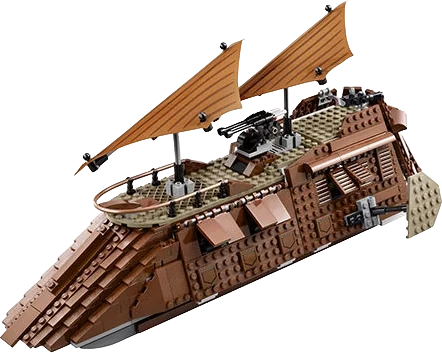
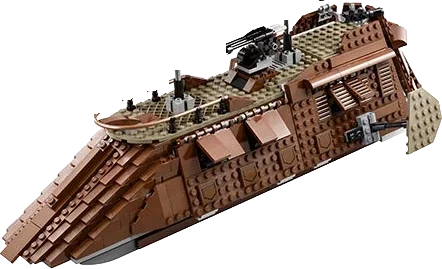
Csak a szett: figurák nélküli szettfotók (mellettük álló figurák levágva), foil packek és paper bagek kihagyva
Claude-Session: https://claude.ai/code/session_01R5Rp62Ha9wasDz8DCjrd26

diff --git a/app.js b/app.js
@@ -449,13 +449,14 @@
     // rounded like every shop price (nearest 500 Ft − 20); shown only when the saving is real and the rest is still worth it
     const figTotal = (D.minifigs || []).reduce((s, f) => s + f.qty, 0);
     const shopRound = v => Math.max(500, Math.round(v / 500) * 500) - 20;
-    const noFig = set && !i.preorder && i.price && D.figs_value_huf > 0 ? shopRound(i.price - D.figs_value_huf) : 0;
+    const isBag = /foil pack|paper bag|polybag/i.test(i.name);   // there the minifigure is the product
+    const noFig = set && !isBag && !i.preorder && i.price && D.figs_value_huf > 0 ? shopRound(i.price - D.figs_value_huf) : 0;
     const showNoFig = noFig >= i.price * 0.3 && noFig <= i.price - 980;
     const noFigLink = MESSENGER + "?text=" + encodeURIComponent((hu ? "Szia! Csak a szettet kérem, minifigurák nélkül: " : "Hi! I'd like just the set, without the minifigures: ") + `${sn} ${i.name} (${money(noFig)})`);
     const setOnly = showNoFig ? `<div class="pd-setonly">
         <span class="pd-setonly__kicker">${hu ? "Minifigurák nélkül" : "Without the minifigures"}</span>
         <b class="pd-setonly__name">${esc(sn)} ${esc(i.name)} – ${hu ? "csak a szett" : "set only"}</b>
-        <img src="assets/nofig/${encodeURIComponent(i.no)}.webp?v=1" data-fallback="https://img.bricklink.com/ItemImage/SN/0/${encodeURIComponent(i.no)}.png" alt="${esc(i.name)} – ${hu ? "a megépített szett" : "the built set"}" loading="lazy">
+        <img src="assets/nofig/${encodeURIComponent(i.no)}.webp?v=2" data-fallback="https://img.bricklink.com/ItemImage/SN/0/${encodeURIComponent(i.no)}.png" alt="${esc(i.name)} – ${hu ? "a megépített szett" : "the built set"}" loading="lazy">
         <span class="pd-setonly__price"><b>${money(noFig)}</b><s>${money(i.price)}</s><em>${hu ? "−" + money(i.price - noFig) : "save " + money(i.price - noFig)}</em></span>
         <a class="pd-fig__btn pd-setonly__btn" href="${esc(noFigLink)}" target="_blank" rel="noopener">${hu ? "Csak a szettet kérem" : "Just the set, please"}</a>
         <p class="pd-setonly__note">${hu

diff --git a/index.html b/index.html
@@ -186,7 +186,7 @@
 </footer>
 
 <script src="shop.js?v=202611012105"></script>
-<script src="app.js?v=202611012130"></script>
+<script src="app.js?v=202611012140"></script>
 <script src="anim.js?v=202611011859" defer></script>
 </body>
 </html>

diff --git a/figurak.html b/figurak.html
@@ -98,7 +98,7 @@
 </footer>
 
 <script src="shop.js?v=202611012105"></script>
-<script src="app.js?v=202611012130"></script>
+<script src="app.js?v=202611012140"></script>
 <script src="anim.js?v=202611011859" defer></script>
 </body>
 </html>

diff --git a/kosar.html b/kosar.html
@@ -63,7 +63,7 @@
 </footer>
 
 <script src="shop.js?v=202611012105"></script>
-<script src="app.js?v=202611012130"></script>
+<script src="app.js?v=202611012140"></script>
 <script src="anim.js?v=202611011859" defer></script>
 </body>
 </html>

diff --git a/szettek.html b/szettek.html
@@ -97,7 +97,7 @@
 </footer>
 
 <script src="shop.js?v=202611012105"></script>
-<script src="app.js?v=202611012130"></script>
+<script src="app.js?v=202611012140"></script>
 <script src="anim.js?v=202611011859" defer></script>
 </body>
 </html>

diff --git a/termek.html b/termek.html
@@ -58,7 +58,7 @@
 </footer>
 
 <script src="shop.js?v=202611012105"></script>
-<script src="app.js?v=202611012130"></script>
+<script src="app.js?v=202611012140"></script>
 <script src="anim.js?v=202611011859" defer></script>
 </body>
 </html>

diff --git a/scripts/fig_cutouts.py b/scripts/fig_cutouts.py
@@ -47,7 +47,9 @@ def _new_nofig():
     except Exception:
         return True
     inv = {i["no"] for i in json.loads(INV.read_text())["items"] if i["type"] == "SET"}
-    return any(n not in idx for n in inv if (det.get(n) or {}).get("minifigs"))
+    names = {i["no"]: i["name"].lower() for i in json.loads(INV.read_text())["items"]}
+    return any(n not in idx for n in inv if (det.get(n) or {}).get("minifigs")
+               and not any(b in names.get(n, "") for b in ("foil pack", "paper bag", "polybag")))
 
 
 def session():
@@ -184,6 +186,15 @@ def build_only(sess, no):
             keep[lab == i] = 1
     keep = cv2.dilate(keep, np.ones((3, 3), np.uint8))
     alpha = (a * keep * 255).astype(np.uint8)
+    # figures standing close to the model are joined to it only by a thin edge or shadow: erode, drop small pieces, regrow
+    H, W = alpha.shape
+    k = max(3, round(min(H, W) * 0.02))
+    core = cv2.erode((alpha > 128).astype(np.uint8), np.ones((k, k), np.uint8))
+    n2, l2, s2, _ = cv2.connectedComponentsWithStats(core, 8)
+    if n2 > 2:
+        b2 = 1 + int(np.argmax(s2[1:, cv2.CC_STAT_AREA]))
+        keep2 = np.isin(l2, [j for j in range(1, n2) if j == b2 or s2[j, cv2.CC_STAT_AREA] >= 0.25 * s2[b2, cv2.CC_STAT_AREA]]).astype(np.uint8)
+        alpha[cv2.dilate(keep2, np.ones((2 * k + 3, 2 * k + 3), np.uint8)) == 0] = 0
     ys, xs = np.where(alpha > 20)
     rgba = np.dstack([np.array(img), alpha])[ys.min():ys.max() + 1, xs.min():xs.max() + 1]
     im = Image.fromarray(rgba, "RGBA")
@@ -201,7 +212,9 @@ def nofig_sets(sess, force=False, only=None):
     NOFIG.mkdir(parents=True, exist_ok=True)
     idx_path = NOFIG / "index.json"
     index = json.loads(idx_path.read_text()) if idx_path.exists() else {}
-    want = sorted(n for n in inv if (det.get(n) or {}).get("minifigs"))
+    names = {i["no"]: i["name"].lower() for i in json.loads(INV.read_text())["items"]}
+    bag = lambda n: any(b in names.get(n, "") for b in ("foil pack", "paper bag", "polybag"))   # the minifigure IS the product
+    want = sorted(n for n in inv if (det.get(n) or {}).get("minifigs") and not bag(n))
     todo = [n for n in want if (only and n in only) or (not only and (force or n not in index))]
     for no in todo:
         im = build_only(sess, no)
